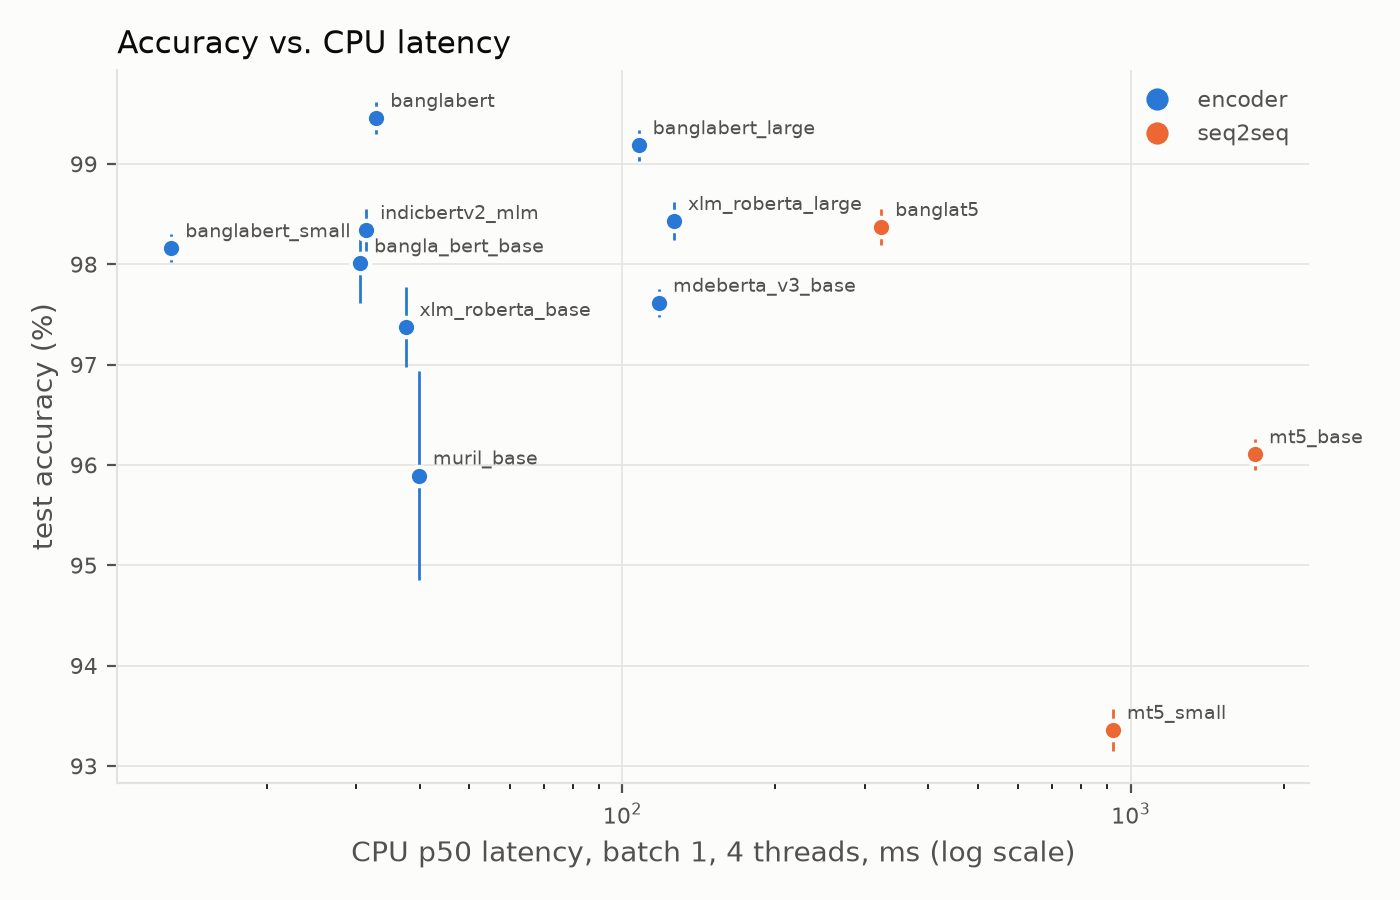
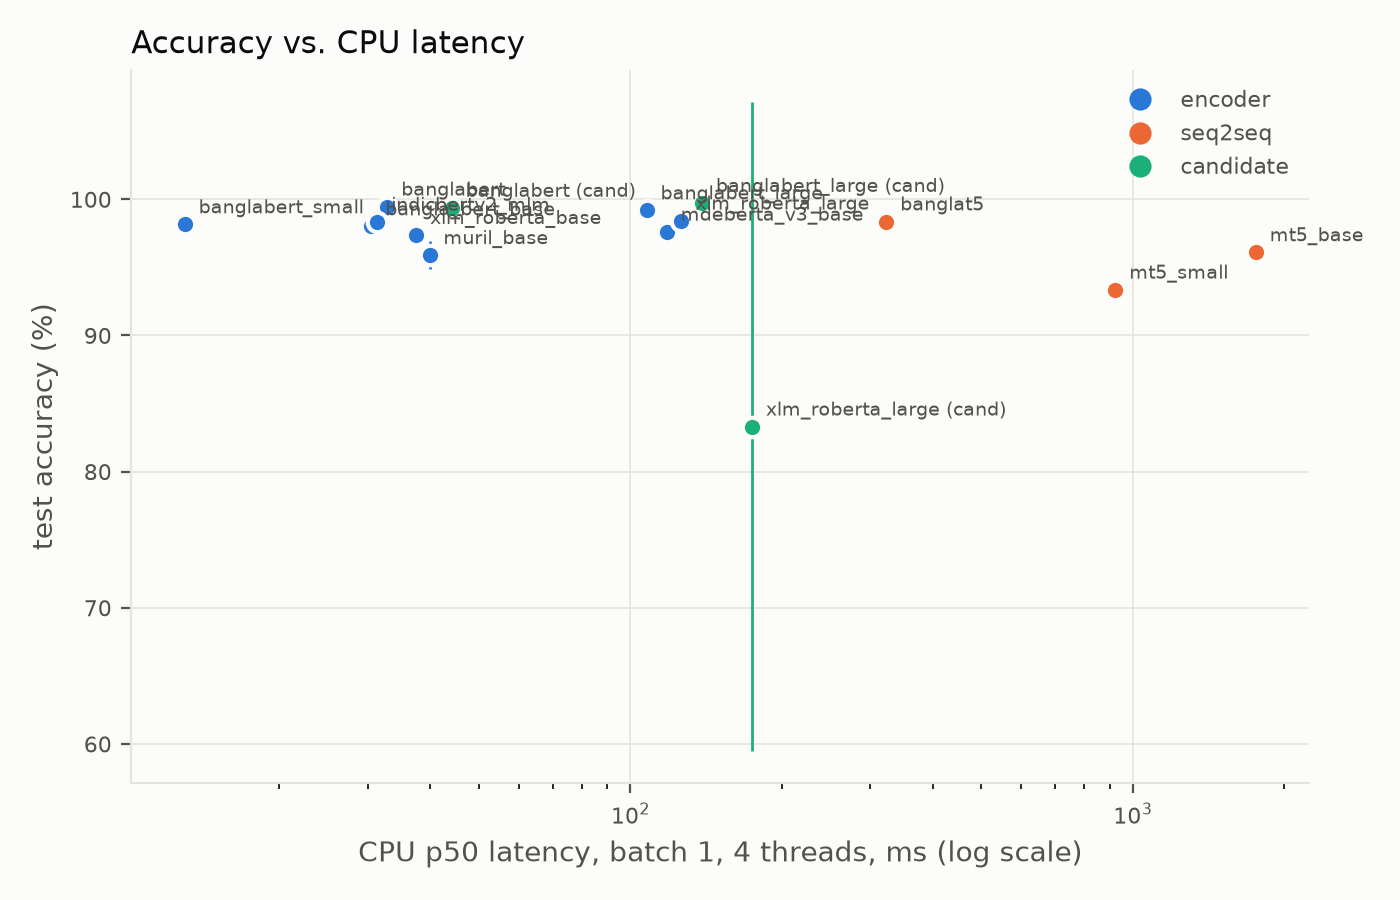
Add results: latency banglat5 target-only

diff --git a/results/summary.md b/results/summary.md
@@ -30,29 +30,29 @@ Accuracy and macro-F1 in %, mean ± std over seeds. Latency: batch 1, full path,
 
 | model | type | params | precision | batch | lr | seeds | accuracy | macro-F1 | acc 2 / 3 readings | other-word change | train time (min) | epochs | GPU p50 | CPU4 p50 | CPU1 p50 |
 |---|---|---|---|---|---|---|---|---|---|---|---|---|---|---|---|
-| banglat5 | seq2seq | 247.6M | fp32 | 16x1 | 0.0005 | 3 | 98.28 ± 0.47 | 98.13 ± 0.57 | 98.4 / 88.9 |  | 25.1 | 12.0 |  |  |  |
+| banglat5 | seq2seq | 247.6M | fp32 | 16x1 | 0.0005 | 3 | 98.28 ± 0.47 | 98.13 ± 0.57 | 98.4 / 88.9 |  | 25.1 | 12.0 | 86.1 | 126.2 | 279.1 |
 
 ## abl_output_target_keep / test
 
 | model | type | params | precision | batch | lr | seeds | accuracy | macro-F1 | acc 2 / 3 readings | other-word change | train time (min) | epochs | GPU p50 | CPU4 p50 | CPU1 p50 |
 |---|---|---|---|---|---|---|---|---|---|---|---|---|---|---|---|
-| banglat5 | seq2seq | 247.6M | fp32 | 16x1 | 0.0005 | 1 | 98.82 | 98.78 | 98.9 / 94.4 |  | 30.1 | 15.0 |  |  |  |
+| banglat5 | seq2seq | 247.6M | fp32 | 16x1 | 0.0005 | 1 | 98.82 | 98.78 | 98.9 / 94.4 |  | 30.1 | 15.0 | 86.1 | 126.2 | 279.1 |
 
 ## cand_main / test
 
 | model | type | params | precision | batch | lr | seeds | accuracy | macro-F1 | acc 2 / 3 readings | other-word change | train time (min) | epochs | GPU p50 | CPU4 p50 | CPU1 p50 |
 |---|---|---|---|---|---|---|---|---|---|---|---|---|---|---|---|
-| banglabert | candidate | 110.0M | fp16 | 32x1 | 2e-05 | 3 | 99.37 ± 0.16 | 99.34 ± 0.17 | 99.4 / 98.1 |  | 5.6 | 9.3 |  |  |  |
-| banglabert_large | candidate | 335.6M | fp16 | 16x2 | 2e-05 | 3 | 99.73 ± 0.09 | 99.72 ± 0.09 | 99.7 / 100.0 |  | 18.7 | 9.3 |  |  |  |
-| xlm_roberta_large | candidate | 559.9M | fp16 | 8x4 | 2e-05 | 3 | 83.30 ± 23.82 | 81.52 ± 26.59 | 83.6 / 64.8 |  | 24.8 | 8.0 |  |  |  |
+| banglabert | candidate | 110.0M | fp16 | 32x1 | 2e-05 | 3 | 99.37 ± 0.16 | 99.34 ± 0.17 | 99.4 / 98.1 |  | 5.6 | 9.3 | 13.6 | 44.1 | 125.8 |
+| banglabert_large | candidate | 335.6M | fp16 | 16x2 | 2e-05 | 3 | 99.73 ± 0.09 | 99.72 ± 0.09 | 99.7 / 100.0 |  | 18.7 | 9.3 | 23.8 | 138.9 | 423.3 |
+| xlm_roberta_large | candidate | 559.9M | fp16 | 8x4 | 2e-05 | 3 | 83.30 ± 23.82 | 81.52 ± 26.59 | 83.6 / 64.8 |  | 24.8 | 8.0 | 19.9 | 174.6 | 579.0 |
 
 ## cand_unseen / unseen_test
 
 | model | type | params | precision | batch | lr | seeds | accuracy | macro-F1 | acc 2 / 3 readings | other-word change | train time (min) | epochs | GPU p50 | CPU4 p50 | CPU1 p50 |
 |---|---|---|---|---|---|---|---|---|---|---|---|---|---|---|---|
-| banglabert | candidate | 110.0M | fp16 | 32x1 | 2e-05 | 3 | 81.02 ± 1.22 | 79.22 ± 1.54 | 81.8 / 62.8 |  | 4.3 | 9.3 |  |  |  |
-| banglabert_large | candidate | 335.6M | fp16 | 16x2 | 2e-05 | 3 | 83.24 ± 2.55 | 81.63 ± 1.94 | 84.0 / 65.0 |  | 13.5 | 8.7 |  |  |  |
-| xlm_roberta_large | candidate | 559.9M | fp16 | 8x4 | 2e-05 | 3 | 62.09 ± 21.18 | 58.93 ± 21.73 | 63.0 / 40.6 |  | 17.9 | 7.3 |  |  |  |
+| banglabert | candidate | 110.0M | fp16 | 32x1 | 2e-05 | 3 | 81.02 ± 1.22 | 79.22 ± 1.54 | 81.8 / 62.8 |  | 4.3 | 9.3 | 13.6 | 44.1 | 125.8 |
+| banglabert_large | candidate | 335.6M | fp16 | 16x2 | 2e-05 | 3 | 83.24 ± 2.55 | 81.63 ± 1.94 | 84.0 / 65.0 |  | 13.5 | 8.7 | 23.8 | 138.9 | 423.3 |
+| xlm_roberta_large | candidate | 559.9M | fp16 | 8x4 | 2e-05 | 3 | 62.09 ± 21.18 | 58.93 ± 21.73 | 63.0 / 40.6 |  | 17.9 | 7.3 | 19.9 | 174.6 | 579.0 |
 
 ## lc10 / test
 
